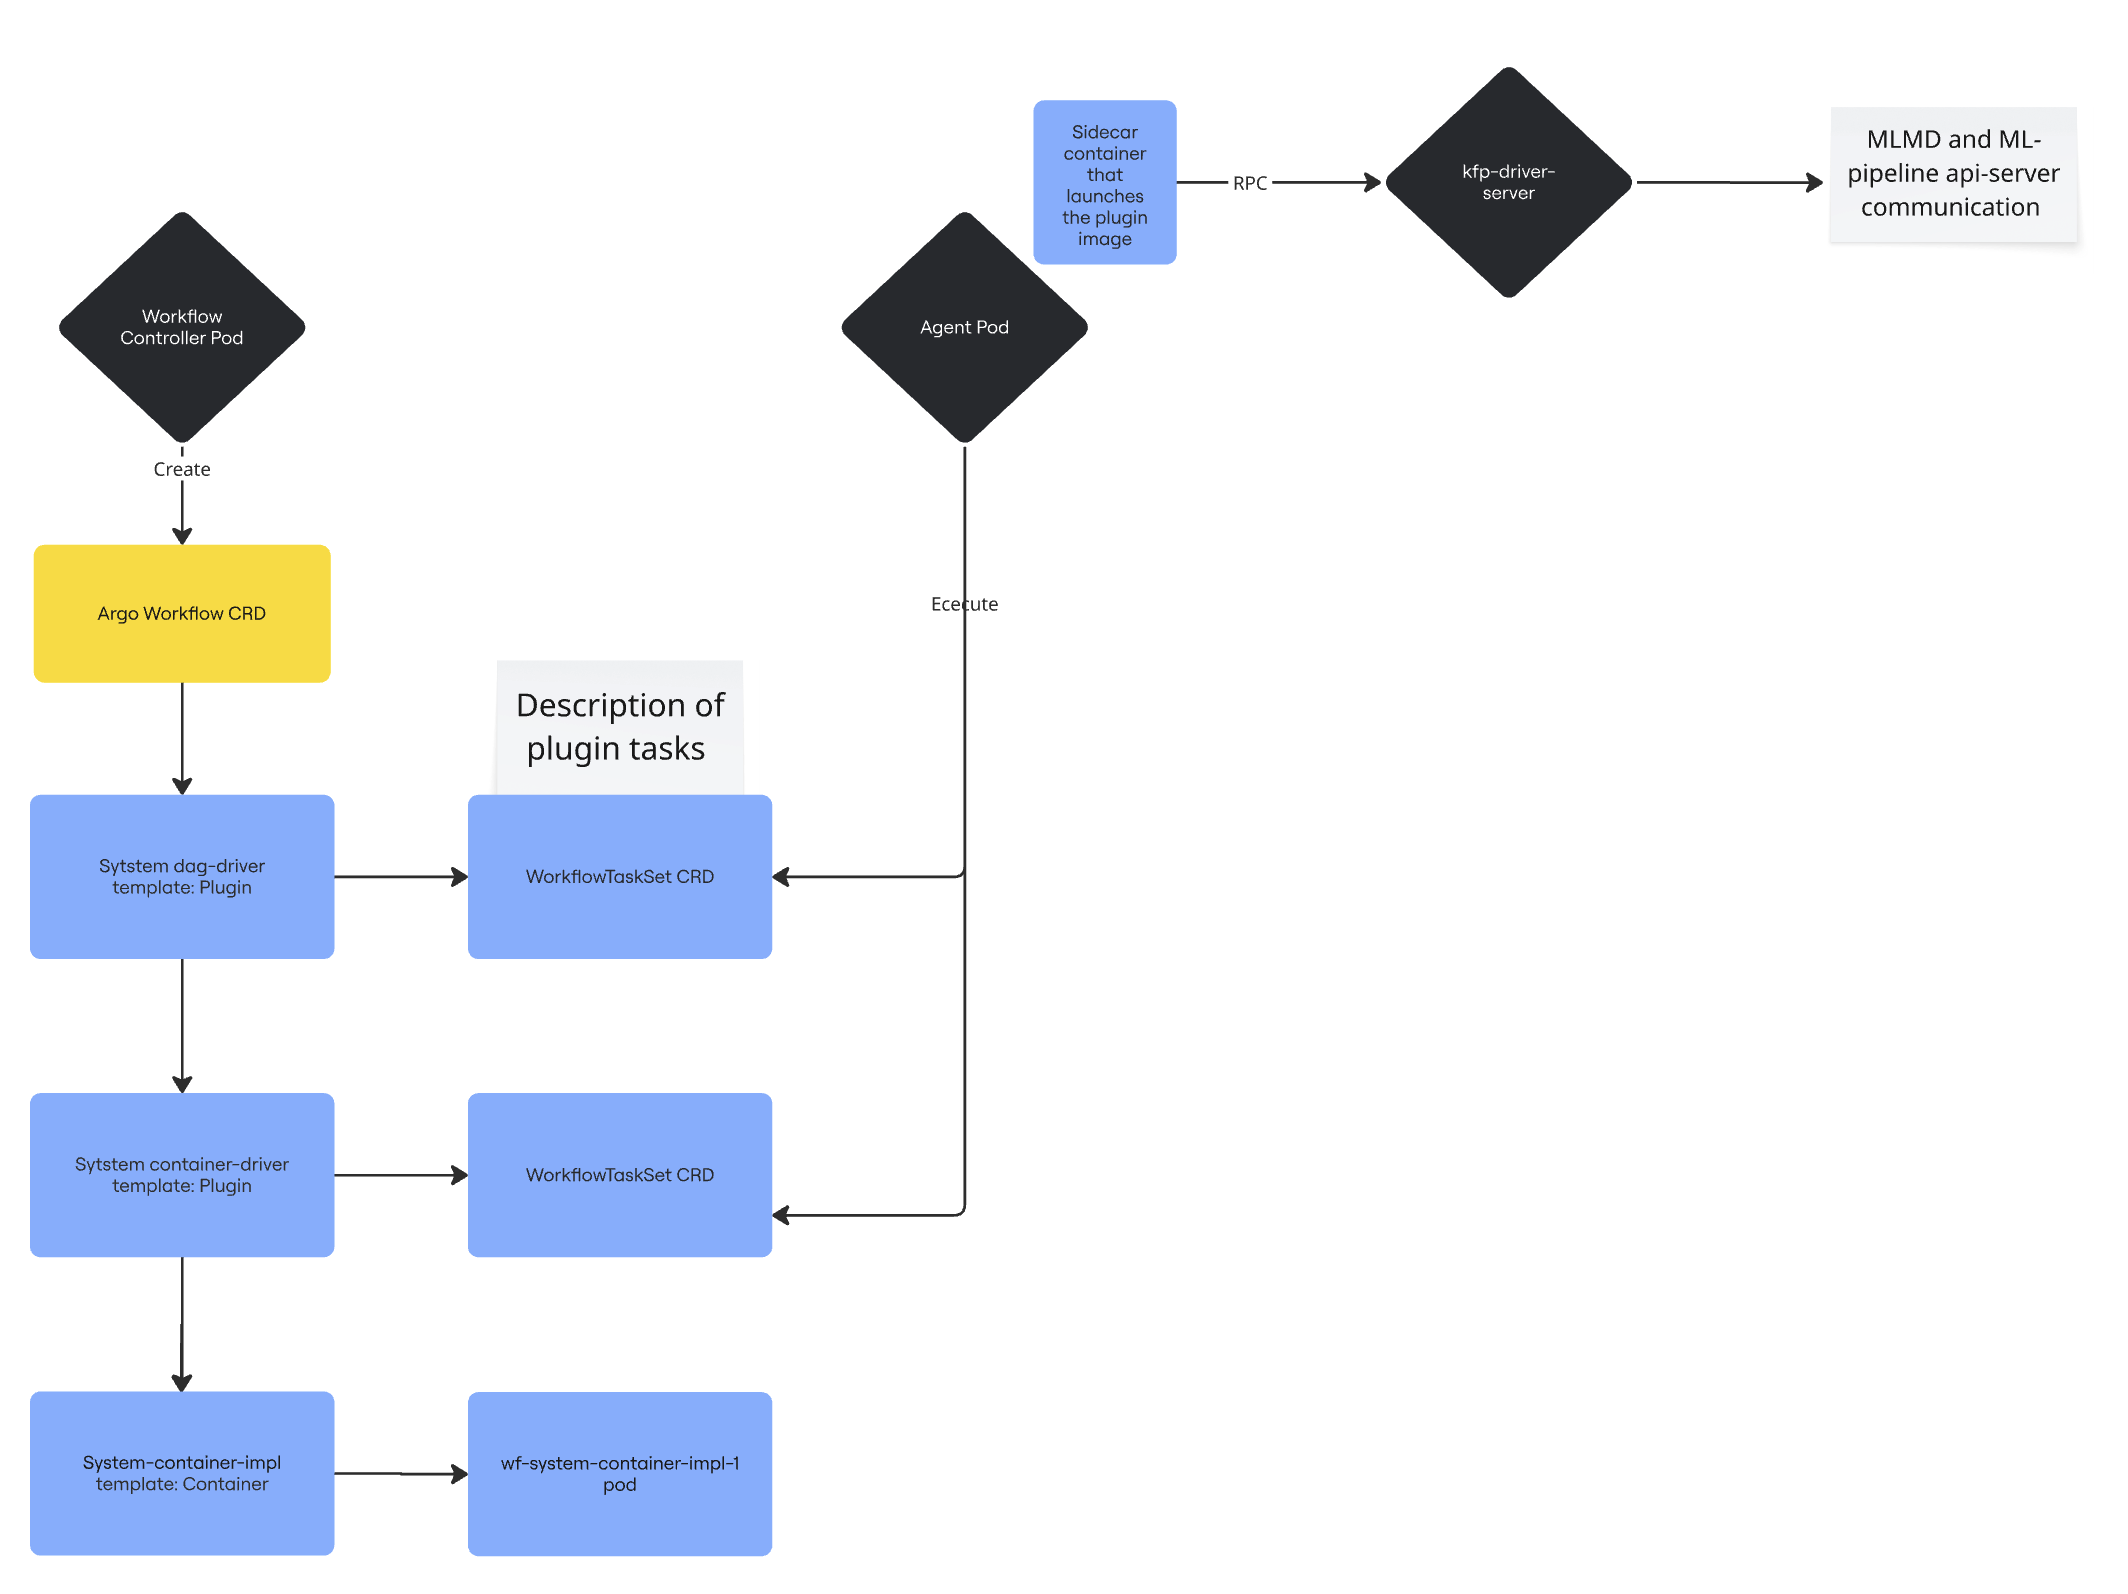
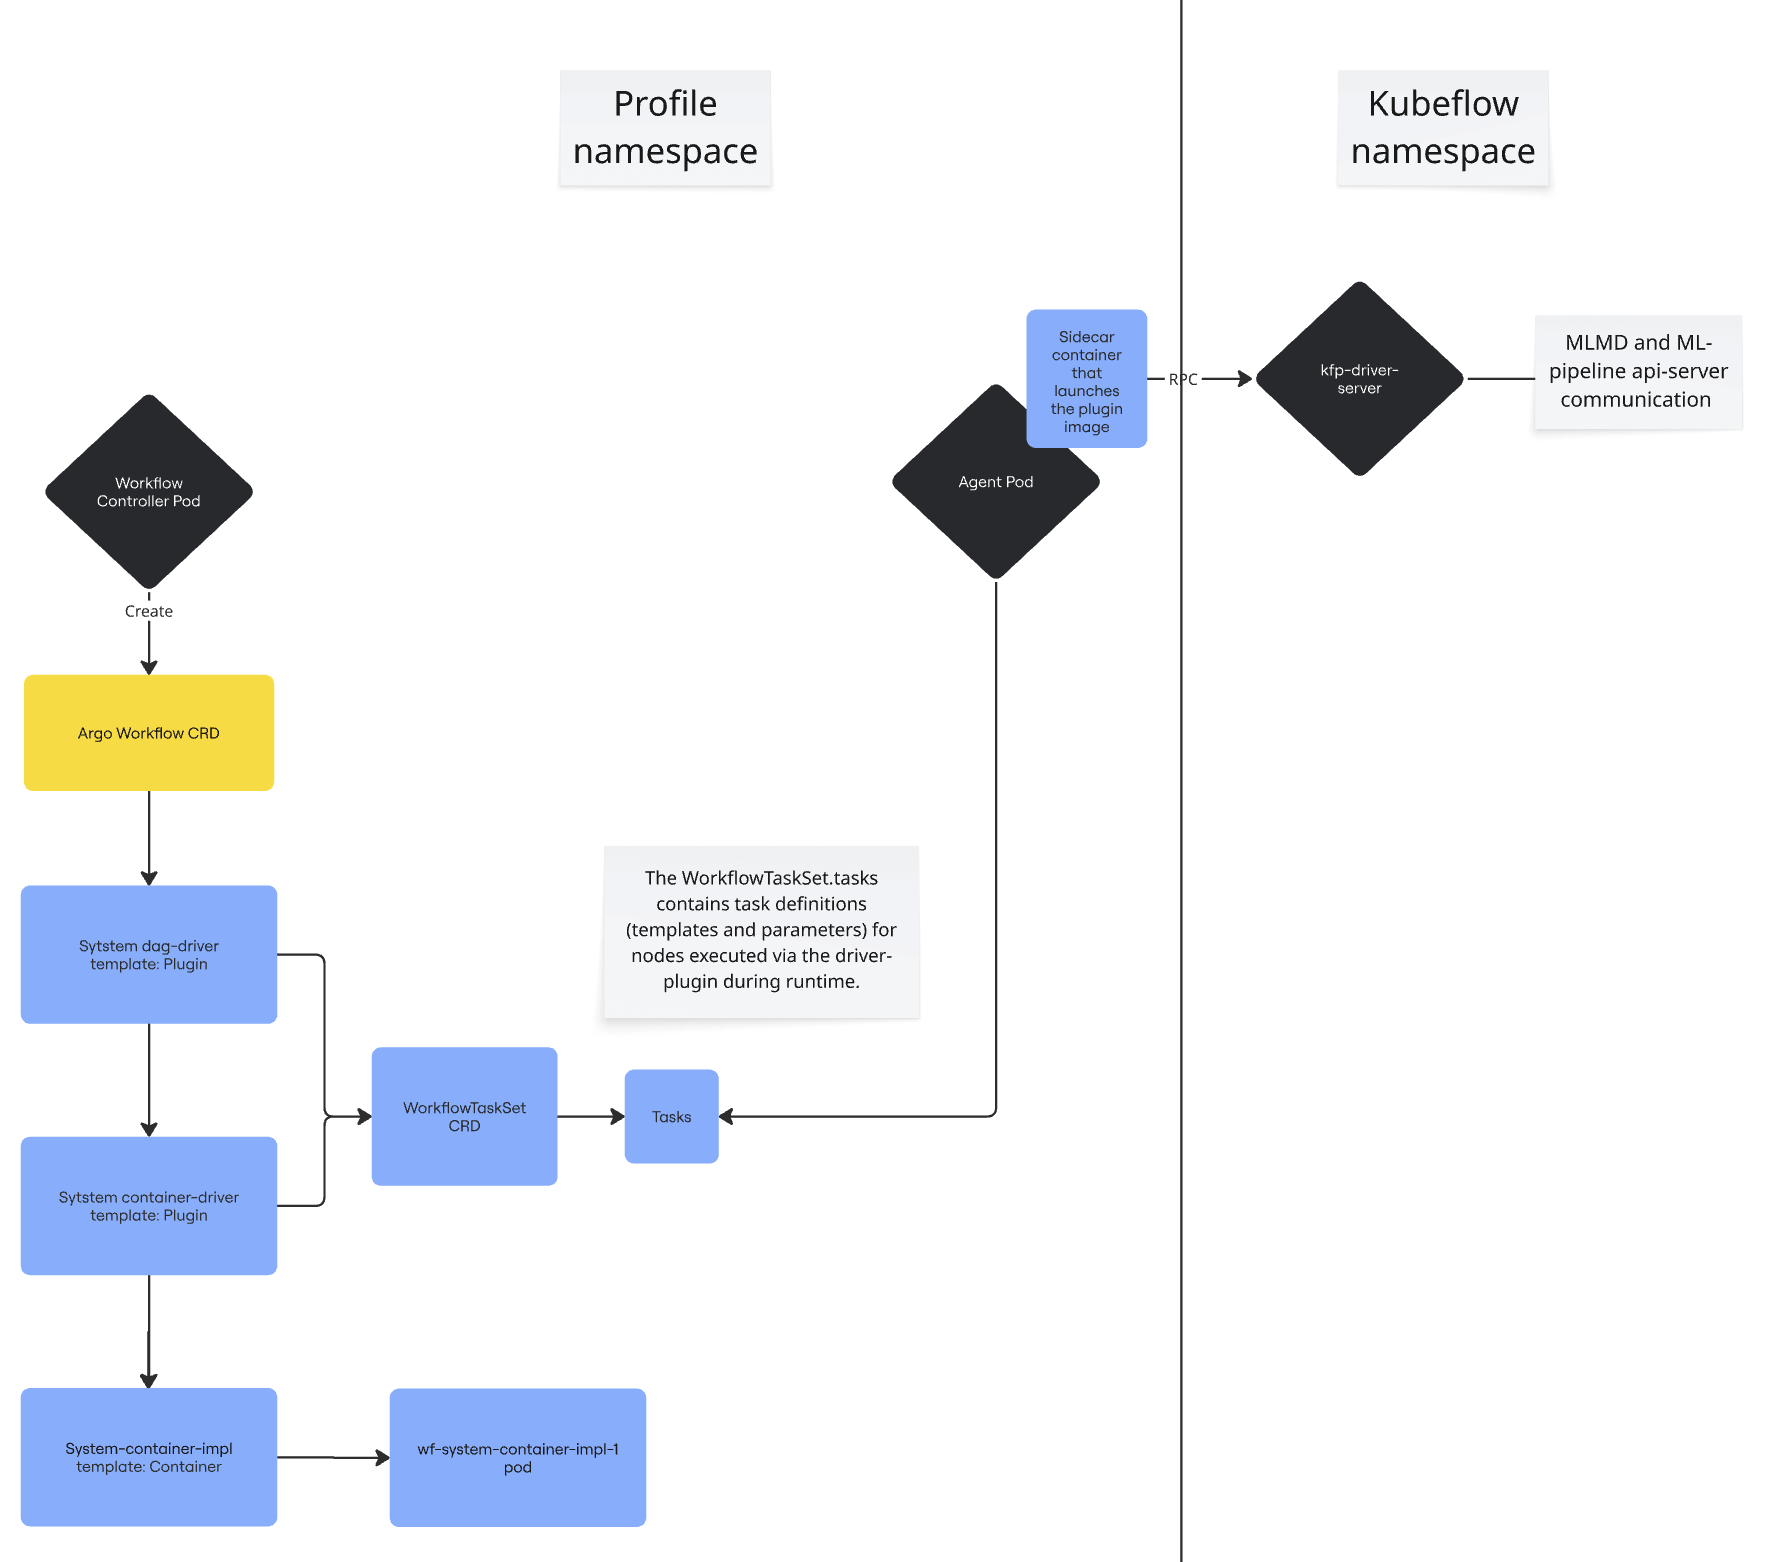
- fix plugin diagram - fix description

diff --git a/proposals/separate-standalone-driver/plugin.md b/proposals/separate-standalone-driver/plugin.md
@@ -13,7 +13,7 @@ As a result, driver-plugin implementations should merely act as a proxy between 
 - According to the [configuration](https://argo-workflows.readthedocs.io/en/latest/executor_plugins/#configuration) ARGO_EXECUTOR_PLUGINS should be set to true 
 - Add additional [workflow RBAC](https://argo-workflows.readthedocs.io/en/latest/http-template/#argo-agent-rbac) for the agent
 
-1. Implement the driver plugin that simply proxies requests from the workflow controller to the kfp-driver-server and back. Check the mock [implementation](src/driver-plugin)
+1. Implement the driver plugin that simply proxies requests from the workflow controller to the kfp-driver-server and back. 
 2. Build the image for the driver plugin.
 3. Create the [yaml description](src/driver-plugin/plugin.yaml) of the plugin 
 4. [Create](https://argo-workflows.readthedocs.io/en/latest/cli/argo_executor-plugin_build/) the configmap by executing  ```argo executor-plugin build .``` in the yaml description folder from the step 3 
